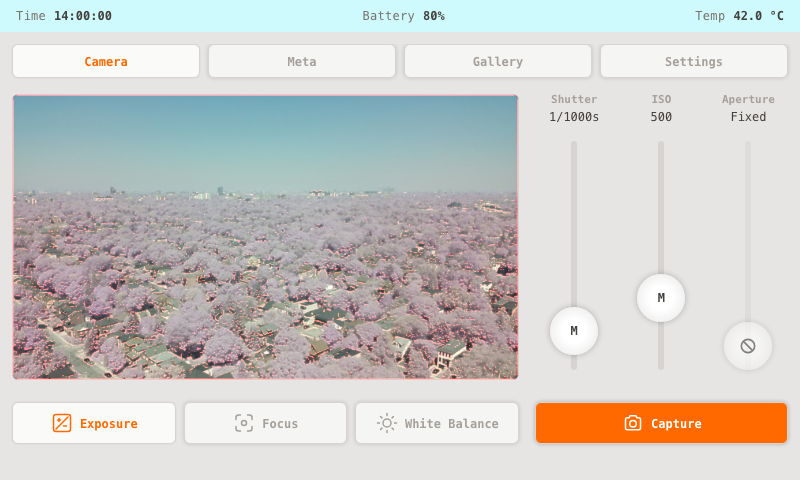
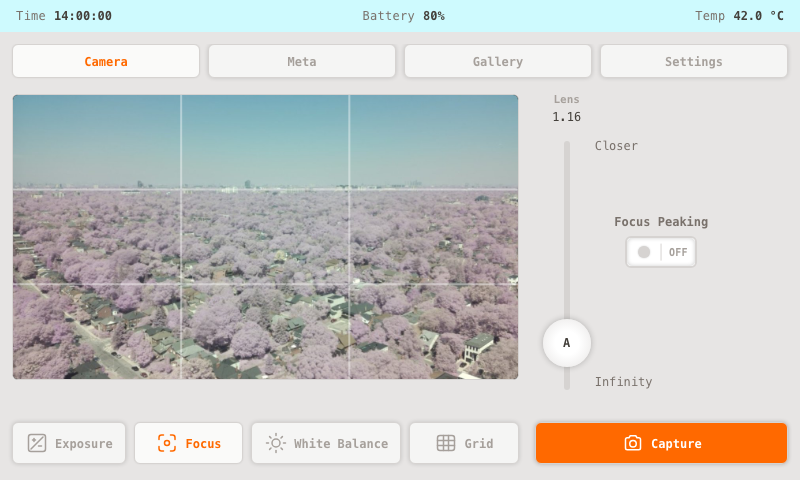
Update README and Switch component styles
- Enhanced README to specify the 800×480 display and added details about composition grids and focus-peaking overlay.
- Improved Switch component styles by adjusting z-index values for better layering and visual consistency.

diff --git a/frontend/src/components/_shared/Switch.tsx b/frontend/src/components/_shared/Switch.tsx
@@ -51,15 +51,15 @@ export default function Switch({
       {!checked && (
         <span
           aria-hidden
-          className="pointer-events-none absolute top-1/2 left-1/2 z-[1] h-[60%] w-px -translate-x-1/2 -translate-y-1/2 bg-stone-300"
+          className="pointer-events-none absolute top-1/2 left-1/2 z-1 h-[60%] w-px -translate-x-1/2 -translate-y-1/2 bg-stone-300"
         />
       )}
       <span
         aria-hidden
-        className="pointer-events-none absolute inset-0 z-[5] rounded-[5px] shadow-[inset_0_0_4px_rgb(0_0_0_/_0.2)]"
+        className="pointer-events-none absolute inset-0 z-5 rounded-[5px] shadow-[inset_0_0_4px_rgb(0_0_0/0.2)]"
       />
       <span
-        className={`absolute top-1/2 z-10 size-3 -translate-x-1/2 -translate-y-1/2 rounded-full shadow-[0_0_2px_rgb(0_0_0_/_0.2)] transition-all ${
+        className={`absolute top-1/2 z-10 size-3 -translate-x-1/2 -translate-y-1/2 rounded-full shadow-[0_0_2px_rgb(0_0_0/0.2)] transition-all ${
           checked ? "left-3/4 bg-orange-500" : "left-1/4 bg-stone-300"
         }`}
       />

diff --git a/README.md b/README.md
@@ -1,19 +1,20 @@
 # Pixel Camera
 
-A full-screen touchscreen camera for Raspberry Pi. Live preview, manual controls, RAW+JPEG capture, and a gallery — built to boot straight into a kiosk on a Pi 5.
+A full-screen touchscreen camera for Raspberry Pi. Live preview, manual controls, RAW+JPEG capture, and a gallery — built to boot straight into a kiosk on a Pi 5 with an **800×480** display.
 
-![Pixel Camera UI](marketing/assets/pixel-ui-1.png)
+![Pixel Camera UI (800×480)](marketing/assets/pixel-ui-1.png)
 
 ## What you get
 
-- **Live viewfinder** — tap to focus, optional rule-of-thirds grid, rotate the sensor to match your mount
+- **Live viewfinder** — tap to focus, composition grids with adjustable opacity, rotate the sensor to match your mount
 - **Exposure** — auto, or lock in ISO and shutter yourself
-- **Focus** — continuous autofocus or manual lens control with focus peaking
+- **Focus** — continuous autofocus or manual lens control, with an on/off focus-peaking overlay
 - **White balance** — auto, presets (daylight, cloudy, tungsten…), or manual temperature and tint
+- **Grid** — thirds, Fibonacci, harmonic, golden triangle/spiral, vanishing point, and more
 - **Capture** — JPEG, RAW (DNG), or both; on-screen shutter or an optional physical GPIO button
 - **Gallery** — browse thumbnails, open full-screen, clear everything when you’re done
 - **Status at a glance** — time, battery, and temperature in the header
-- **Built for the Pi** — boots into the app, stays cool under load, and can exit to the desktop when you need it
+- **Built for the Pi** — boots into the app at 800×480, stays cool under load, and can exit to the desktop when you need it
 
 ## Hardware
 
@@ -21,7 +22,7 @@ Designed for:
 
 - Raspberry Pi 5 (Bookworm 64-bit, Wayland / labwc)
 - Camera module (including NoIR, with colour-tuning support)
-- Touchscreen display
+- **800×480** touchscreen display
 - Optional: physical shutter button on GPIO, Geekworm X120x-class UPS for battery readout,
   and a rotary focus dial (CLK GPIO23, DT GPIO24, switch GPIO25)
 
@@ -31,12 +32,12 @@ Develop on a Mac with a mock camera — no Pi required until you’re ready to d
 
 | Tab | What it’s for |
 | --- | --- |
-| **Camera** | Live preview and exposure / focus / white-balance controls |
+| **Camera** | Live preview plus Exposure / Focus / White Balance / Grid controls |
 | **Meta** | Live sensor readouts and control ranges |
 | **Gallery** | Review and delete captures |
-| **Settings** | Grid, capture button, rotation, quality, format, thermal throttle, exit kiosk |
+| **Settings** | Capture button, rotation, quality, format, thermal throttle, exit kiosk |
 
-Tap the preview to focus. Use **Capture** (or the GPIO shutter) to save. Photos land in `captures/` on the device.
+On the Camera tab, the control strip under the viewfinder switches the side panel. Tap the preview to focus. Use **Capture** (or the GPIO shutter) to save. Photos land in `captures/` on the device.
 
 ## Quick start (Mac)
 
